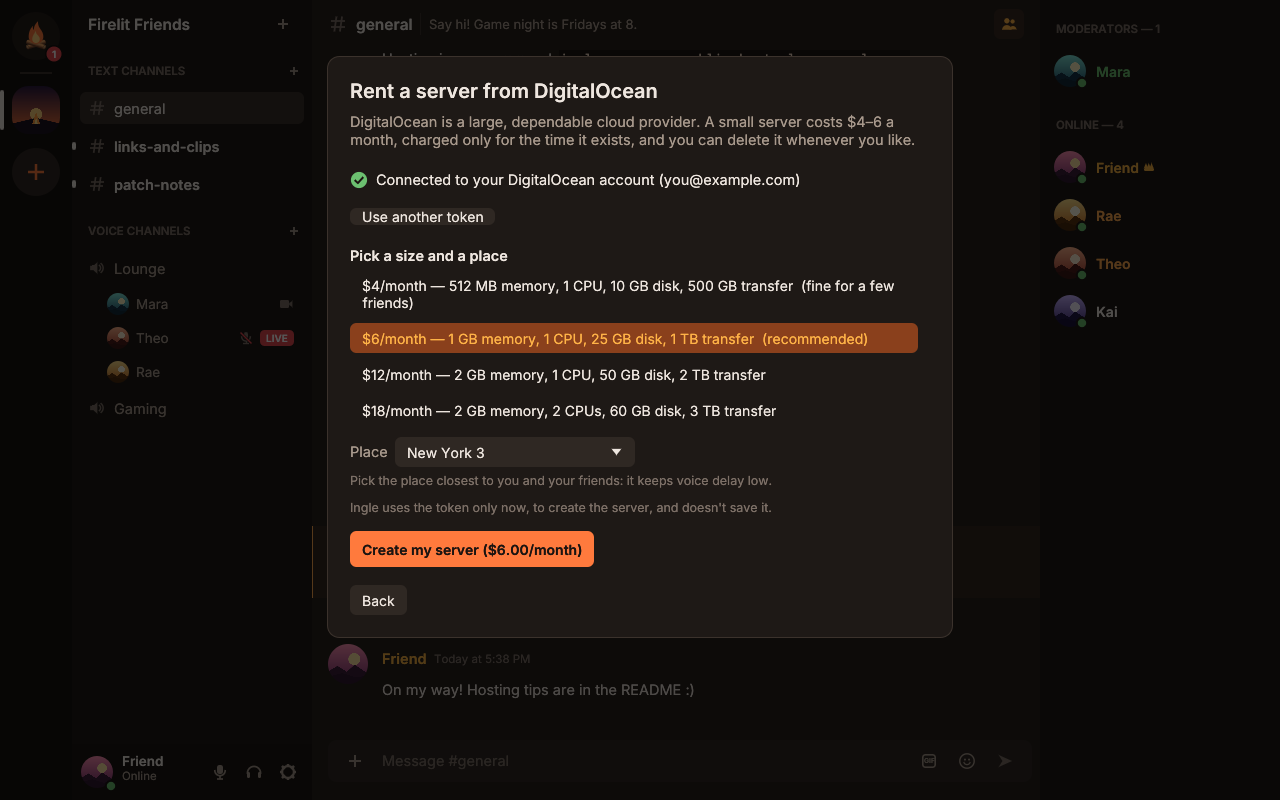
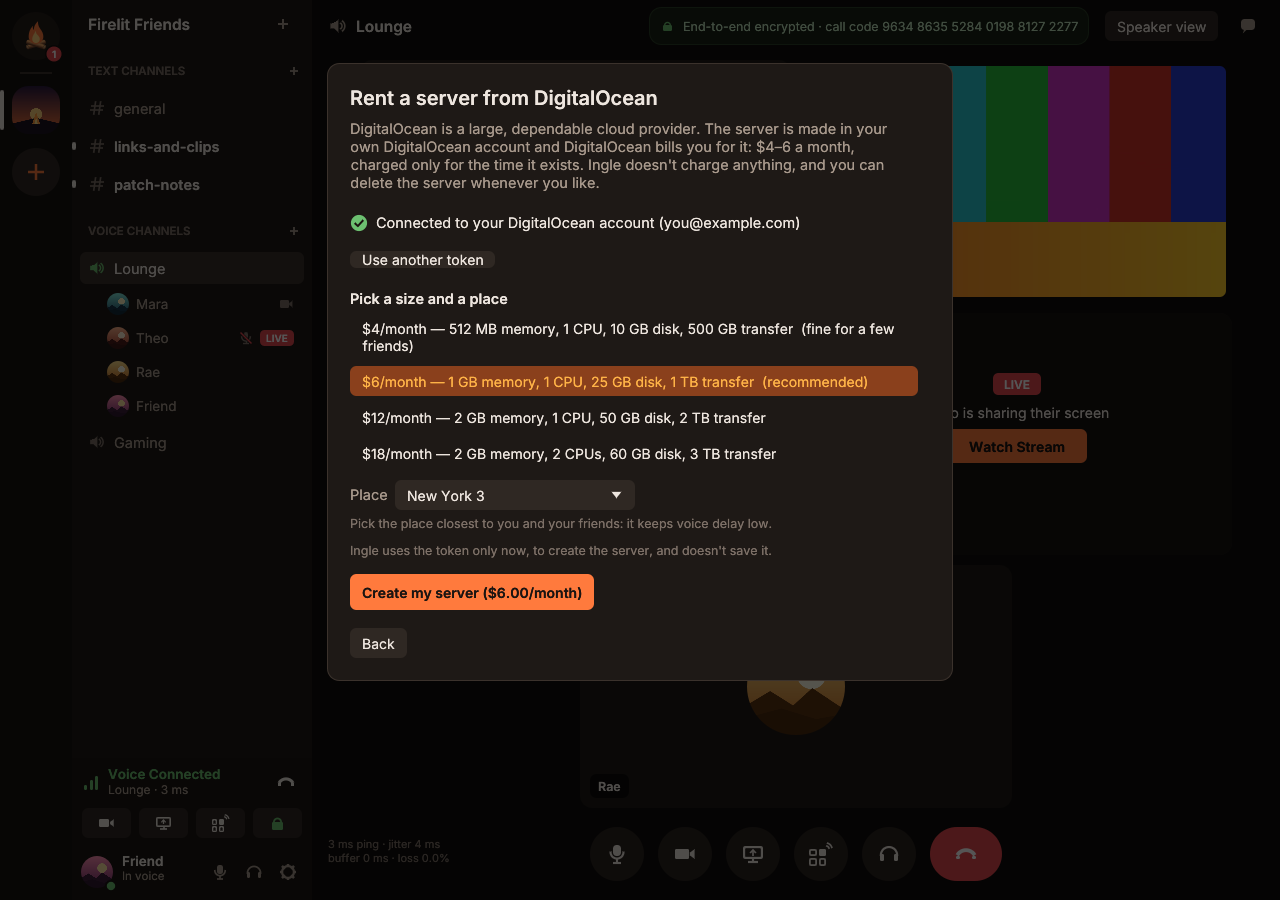
Ingle 0.7.1: security update (SSH host keys checked before any password, release files that expire, server mute and deafen that hold, sealed and private backups, scrubbed bug report logs, bans that close the invite, Linux updates checked as root, connection limits per place), Watch Stream from a pro
Claude-Session: https://claude.ai/code/session_01YHn1eQ87uNra2osjz6EaSo

diff --git a/crates/app/src/create.rs b/crates/app/src/create.rs
@@ -370,7 +370,7 @@ fn choose_page(c: &mut CreateState, ui: &mut egui::Ui, close: &mut bool) {
     if choice_card(
         ui,
         "rent",
-        Some("RECOMMENDED"),
+        Some("QUICKEST"),
         "Rent a server",
         "In your own DigitalOcean account, about $4–6 a month, billed to you by DigitalOcean (Ingle doesn't charge anything). Ingle creates it and sets it up for you in a few minutes; delete it any time.",
         icons::cloud,

diff --git a/README.md b/README.md
@@ -1,7 +1,7 @@
 # Ingle
 
-**Voice channels, webcams, smooth 1080p60 screen sharing and Discord-style text chat for
-your group. A native Rust app with end-to-end encrypted calls, no accounts, and a server
+**Voice channels, webcams, smooth 1080p60 screen sharing, a soundboard and Discord-style
+text chat for your group. A native Rust app with end-to-end encrypted calls, no accounts, and a server
 you own, on any VPS from any provider: Ingle sets it up for you in a few minutes.**
 
 *Ingle* is an old Scots word for the fire in a hearth: the place people gather.
@@ -27,7 +27,8 @@ a `.deb` for Ubuntu, Linux Mint, Pop!_OS and Debian). Made by
 **Text chat**
 
 - Servers with **text channels** and **voice channels** (each voice channel has its own
-  chat), channel topics, server icons and profile pictures.
+  chat), emoji in channel names (🎮-gaming, 🔊 Chill Zone), channel topics, server icons and
+  profile pictures.
 - Markdown, replies, **@mentions** (people, roles, @everyone and @here, suggested as you
   type), reactions, edits, typing indicators and history. Deleting a message asks first,
   showing the message and what goes with it (hold Shift to delete straight away).
@@ -35,6 +36,10 @@ a `.deb` for Ubuntu, Linux Mint, Pop!_OS and Debian). Made by
   the **+** button, drag them in, or paste them with Ctrl+V. Animated GIFs play.
 - **GIF search**: type `/giphy` or `/klipy`, or click the GIF button (powered by GIPHY and
   KLIPY, each in its own tab; each server's owner turns them on with a free key).
+- **Favorites**, like Discord's, for GIFs from GIPHY and KLIPY and for pictures people post
+  (memes): point at one, in chat or in the GIF picker, and click the star in its corner.
+  They wait in the GIF picker's first tab, ready to send on any server (a favorite picture is
+  kept on your PC, so it's there even if the original is deleted).
 - **Select and copy any text** like on a web page: drag from anywhere over the messages,
   across as many as you like; double-click a word, triple-click a paragraph; Ctrl+C.
   Right-click a message for Copy, **Copy link**, Open link, Copy text, Reply, Edit and
@@ -50,8 +55,9 @@ a `.deb` for Ubuntu, Linux Mint, Pop!_OS and Debian). Made by
 **Friends and direct messages**
 
 - Add friends, accept or decline requests, and block people.
-- **Direct messages** with anyone you share a server with. They're private on that server:
-  only the two of you can read them.
+- **Direct messages** with anyone you share a server with. Other members can't see them,
+  but they aren't end-to-end encrypted yet: they're stored on the server, so whoever runs it
+  could read them (end-to-end encrypted messages are coming in 0.8).
 
 ![Direct messages, with the NEW line above what you haven't read](docs/screenshots/messages.png)
 
@@ -81,12 +87,16 @@ a `.deb` for Ubuntu, Linux Mint, Pop!_OS and Debian). Made by
 
 ![A voice channel: a camera (the test bot's pattern), a screen share and the call code](docs/screenshots/call.png)
 
+![The soundboard in a call: Ingle's own sounds (and the server's), with an emoji by whoever played one](docs/screenshots/soundboard.png)
+
 **Video and screen sharing**
 
 - **Webcams** (H.264), shown to everyone in the channel.
 - **Go Live**: share a whole screen or one window, with a live preview before you start,
-  from 720p30 to 1080p60, or 1440p30 for sharp text. Viewers opt in with **Watch Stream**,
-  so a stream only uses bandwidth for the people watching it. Several people can stream at
+  from 720p30 to 1080p60, or 1440p30 for sharp text. Viewers opt in with **Watch Stream**
+  (on the stream, or from the person's profile when you click their name in the channel
+  list: **Join and Watch** from anywhere else), so a stream only uses bandwidth for the
+  people watching it. Several people can stream at
   once, and a sound plays when someone starts watching.
 - **Stream sound** (Windows): a whole-screen share sends everything your PC plays *except
   the call itself*, so viewers never hear themselves; a window share sends just that app's
@@ -270,7 +280,7 @@ SSH (TCP port 22) must be allowed too for the setup itself.
 
 ### Renting one from DigitalOcean (the shortcut)
 
-![Renting a server from DigitalOcean in Ingle: pick a size and a place](docs/screenshots/rent-a-server.png)
+![Renting a server in your own DigitalOcean account, in Ingle: pick a size and a place](docs/screenshots/rent-a-server.png)
 
 DigitalOcean was picked for being cheap, very reliable and simple to sign up for. The
 account is yours, made with your own card or PayPal, and **DigitalOcean bills you
@@ -556,12 +566,13 @@ for the research behind it.
 ## How it's tested
 
 Ingle is used on real Windows 10 and 11 PCs, and every release is also tested in a Linux
-sandbox before it ships: about 150 automated tests, including end-to-end runs with a real
+sandbox before it ships: about 165 automated tests, including end-to-end runs with a real
 server and several clients over QUIC (chat, invites, end-to-end encrypted voice in both
 directions, webcam pixels, 1080p screen sharing, stream sound reaching only viewers, late
 joiners, voice through server restarts, roles, pictures, custom emoji, direct messages,
 friends and blocking, unread marks, backups restored on another server, bug reports, the
-soundboard heard by everyone in the call, server mute and deafen enforced by the server). The
+soundboard heard by everyone in the call, server mute and deafen enforced by the server,
+backups whose server key only their owner can open, release files that expire). The
 app is driven through its real UI on a virtual display (visual fixes are checked with
 before-and-after captures), and the Windows builds are run under Wine (the app, the server,
 the bot and the setup).
